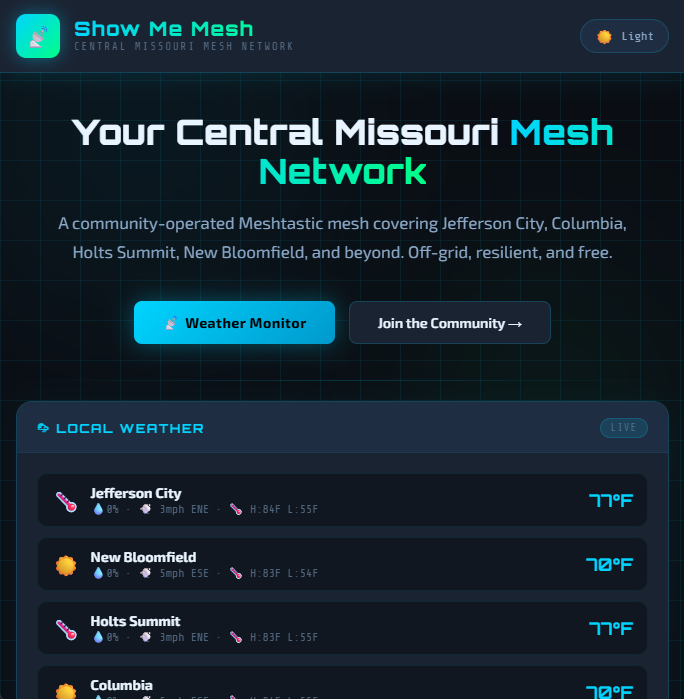
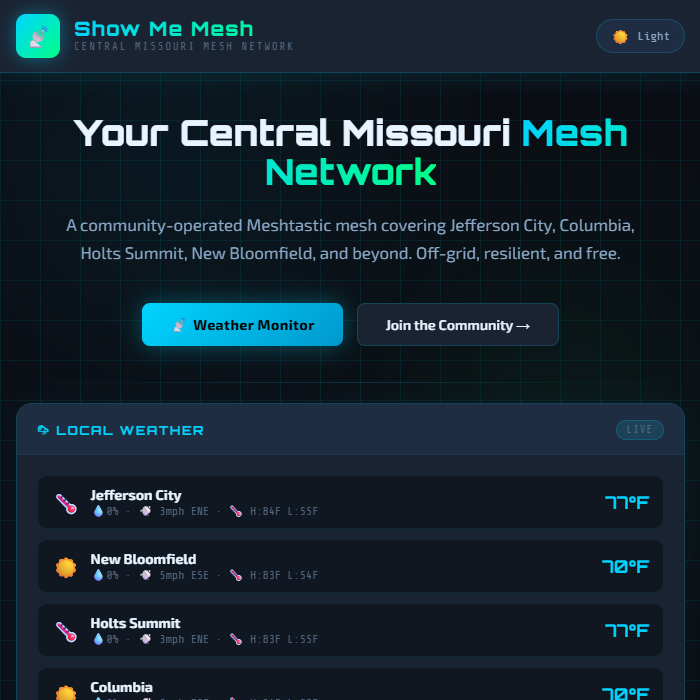
fix neighbors preview sizes and rename mo mesh

diff --git a/docs/neighbors.md b/docs/neighbors.md
@@ -11,27 +11,27 @@ tags:
 <div class="grid cards small" markdown>
 
 -   [__Saint Louis Mesh__](https://meshstl.org/)
-    ![Saint Louis Mesh website preview showing community mesh network information](./assets/images/previews/meshstl.org.jpg)
+    ![Link preview](./assets/images/previews/meshstl.org.jpg)
+
+-   [__Central Missouri Mesh__](https://mo-mesh.com/)
+    ![Link preview](./assets/images/previews/mo-mesh.com.png)
 
 -   [__Chicagoland Mesh__](https://chimesh.org/)
-    ![Chicagoland Mesh website preview showing regional mesh network details](./assets/images/previews/chimesh.org.jpg)
+    ![Link preview](./assets/images/previews/chimesh.org.jpg)
 
 -   [__Iowa Mesh__](https://iowamesh.org/)
-    ![Iowa Mesh website preview featuring community-operated mesh network](./assets/images/previews/iowamesh.org.jpg)
+    ![Link preview](./assets/images/previews/iowamesh.org.jpg)
 
 -   [__Northwest Arkansas Mesh__](https://nwame.sh/)
-    ![Northwest Arkansas Mesh website preview with local network information](./assets/images/previews/nwame.sh.jpg)
+    ![Link preview](./assets/images/previews/nwame.sh.jpg)
 
 -   [__Central Arkansas Mesh__](https://lrme.sh/)
-    ![Central Arkansas Mesh website preview showcasing community mesh resources](./assets/images/previews/lrme.sh.jpg)
+    ![Link preview](./assets/images/previews/lrme.sh.jpg)
 
 -   [__Tennessee Mesh__](https://tennmesh.com/)
-    ![Tennessee Mesh website preview displaying regional mesh network content](./assets/images/previews/tennmesh.com.jpg)
+    ![Link preview](./assets/images/previews/tennmesh.com.jpg)
 
 -   [__Nebraska Mesh__](https://www.nebraskamesh.net/)
-    ![Nebraska Mesh website preview featuring state mesh network information](./assets/images/previews/www.nebraskamesh.net.png)
-
--   [__Show Me Mesh__](https://mo-mesh.com/)
-    ![Show Me Mesh website preview highlighting Central Missouri mesh network](./assets/images/previews/mo-mesh.com.png)
+    ![Link preview](./assets/images/previews/www.nebraskamesh.net.png)
 
 </div>